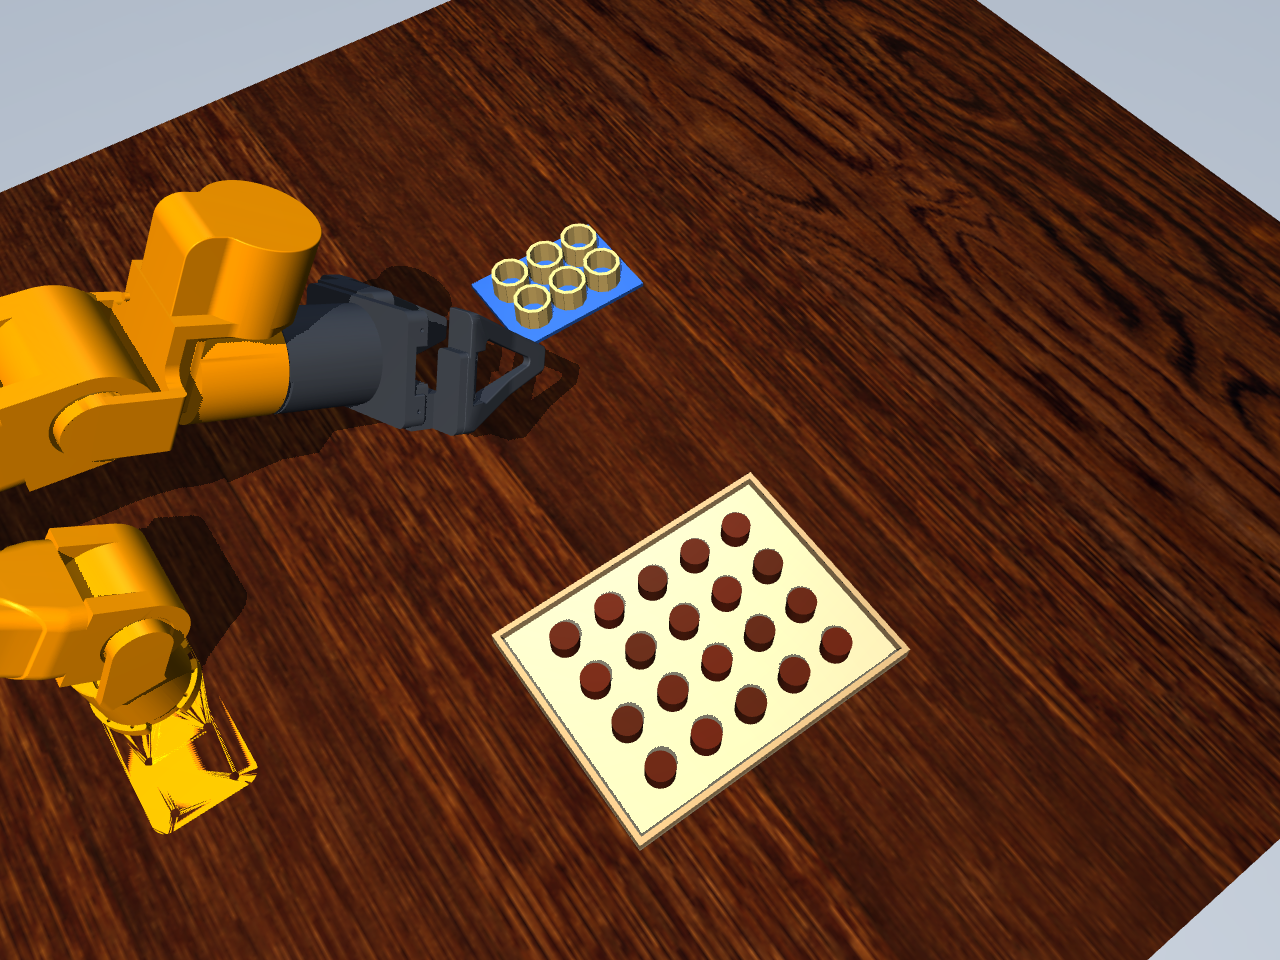
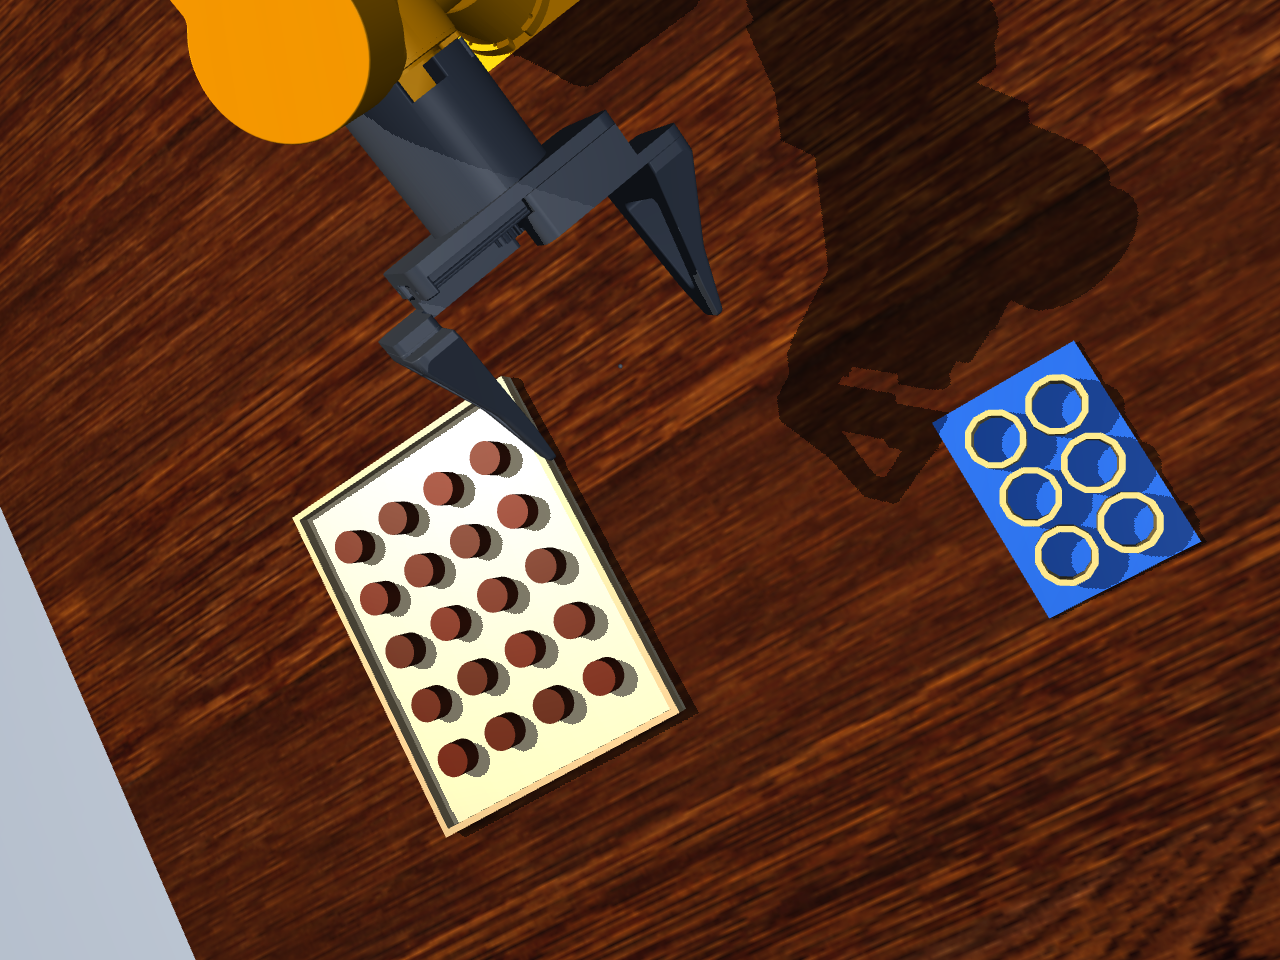
Refresh chocolate previews and moved-arm camera witness

diff --git a/sdk/tests/test_simulation.py b/sdk/tests/test_simulation.py
@@ -1747,7 +1747,7 @@ def _native_conformance(
         if robot != "so101":
             # The pocket-overhead view puts the old near-base witness behind
             # xArm's tall upper arm. Use clear tabletop beside the source tray.
-            witness_x = 0.3 if environment == "chocolate-packing" else 0.1
+            witness_x = 0.4 if environment == "chocolate-packing" else 0.1
             point = np.linalg.inv(t) @ np.array([witness_x, -0.32, 0.0, 1.0])
             u = round(intr["fx"] * point[0] / point[2] + intr["cx"])
             v = round(intr["fy"] * point[1] / point[2] + intr["cy"])
